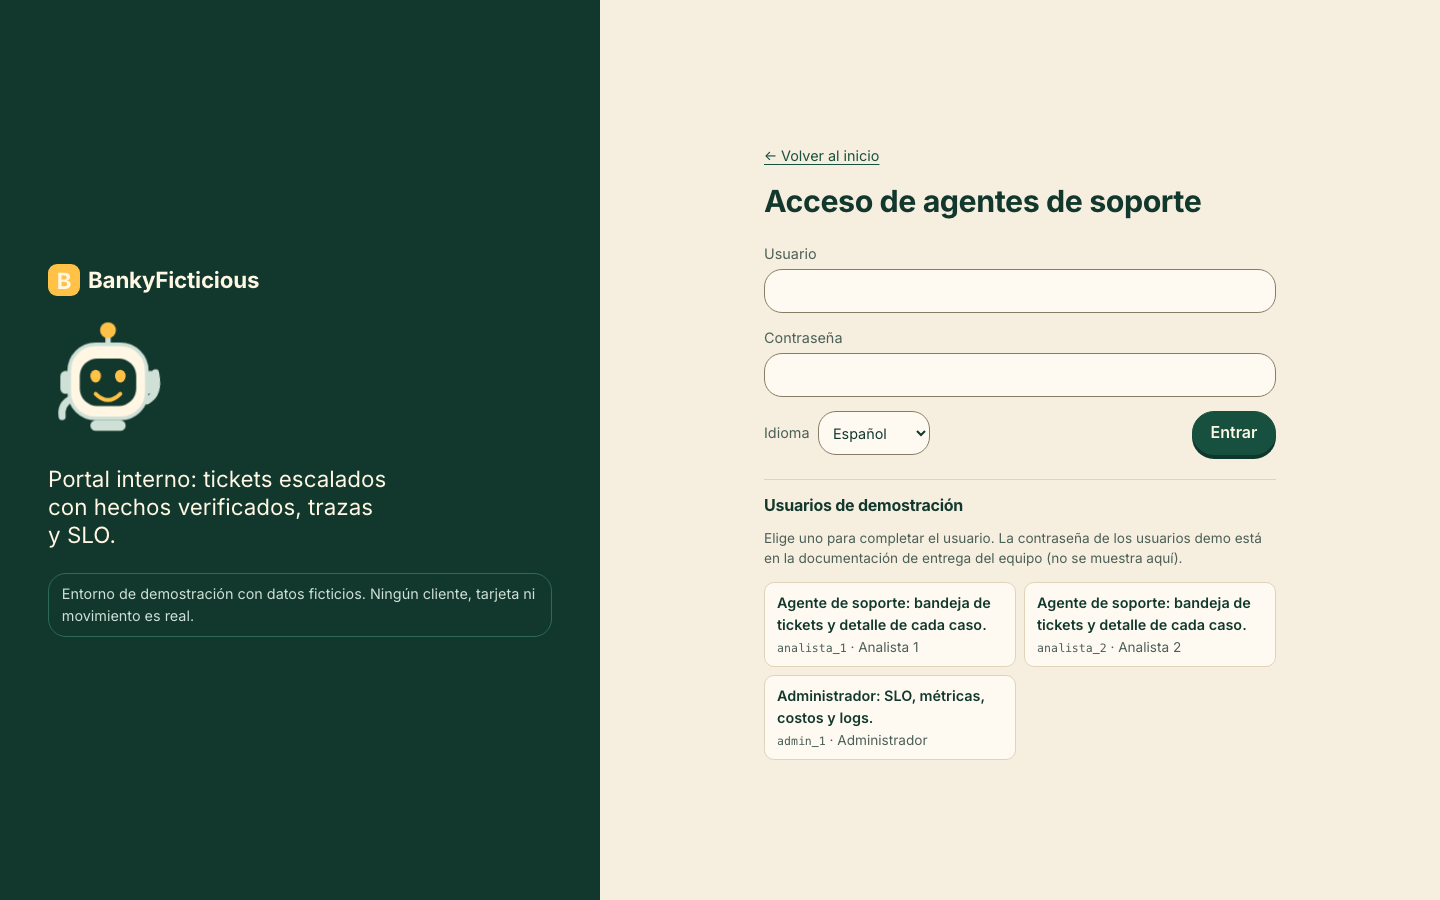
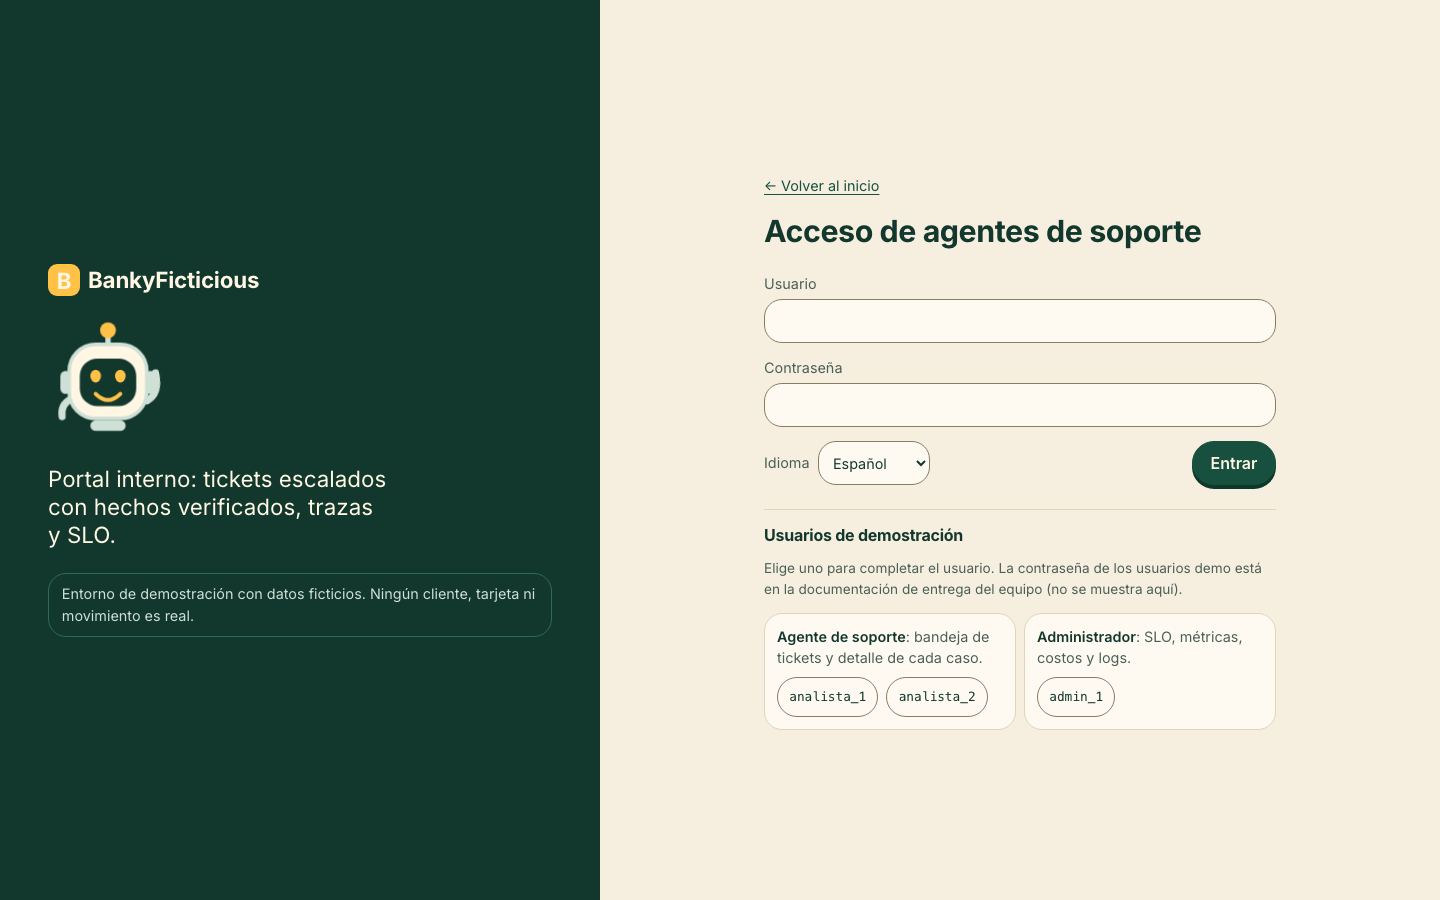
feat(frontend): group demo users by scenario on the login
Shorter demo user list on the login, grouped by scenario.

- One group per scenario (customers) or role (agents, admin), each with a small button per user, instead of one card per user (12 cards became 6 groups).
- On mobile each group is a single row: the scenario name and compact buttons "1" / "2"; the long description stays on desktop. The mobile login page went from about 3,100 px to 2,340 px tall.
- Picking a user still only fills the username and moves focus to the password; each button's accessible name is "<scenario>: <username>".

Closes #106

diff --git a/frontend/src/pages/LoginPage.tsx b/frontend/src/pages/LoginPage.tsx
@@ -1,11 +1,24 @@
 import { useRef, useState, type FormEvent } from "react";
 import { Link, Navigate, useNavigate, useSearchParams } from "react-router-dom";
 import { ApiError } from "../api/client";
+import type { DemoUser } from "../api/types";
 import { useDemoInfo } from "../lib/demo";
 import { T } from "../lib/i18n";
 import { describeError, homeFor, useSession } from "../lib/session";
 import Banky from "../components/Banky";
 import ErrorNote from "../components/ErrorNote";
+
+/** Un grupo por escenario (clientes) o por rol (agentes, admin): la lista queda corta y cada usuario es un botón pequeño. */
+function groupByScenario(users: DemoUser[]): { key: string; description: DemoUser["description"]; users: DemoUser[] }[] {
+  const groups = new Map<string, { key: string; description: DemoUser["description"]; users: DemoUser[] }>();
+  for (const u of users) {
+    const key = u.scenario ?? u.role;
+    const g = groups.get(key) ?? { key, description: u.description, users: [] };
+    g.users.push(u);
+    groups.set(key, g);
+  }
+  return [...groups.values()];
+}
 
 export default function LoginPage() {
   const { session, lang, setLang, login, expired } = useSession();
@@ -77,15 +90,23 @@ export default function LoginPage() {
           <section aria-labelledby="demo-users" className="demo-users">
             <h2 id="demo-users">{t.demoUsers}</h2>
             <p className="muted small">{t.demoPick} {demo.password_hint[lang]}</p>
-            <ul>
-              {demoUsers.map((u) => (
-                <li key={u.username}>
-                  <button type="button" className="demo-user" onClick={() => { setUsername(u.username); passwordRef.current?.focus(); }} aria-pressed={username === u.username}>
-                    <span className="demo-scenario">{u.description[lang]}</span>
-                    <span className="muted small"><span className="mono">{u.username}</span>{u.display_name && <> · {u.display_name}</>}</span>
-                  </button>
-                </li>
-              ))}
+            <ul className="demo-groups">
+              {groupByScenario(demoUsers).map((g) => {
+                const [title, ...rest] = g.description[lang].split(": ");
+                return (
+                  <li key={g.key} className="demo-group">
+                    <p className="demo-scenario">{title}{rest.length > 0 && <span className="demo-desc">: {rest.join(": ")}</span>}</p>
+                    <div className="demo-picks">
+                      {g.users.map((u) => (
+                        <button key={u.username} type="button" className="chip demo-pick" aria-pressed={username === u.username} aria-label={`${title}: ${u.username}`}
+                          onClick={() => { setUsername(u.username); passwordRef.current?.focus(); }}>
+                          <span className="mono pick-full">{u.username}</span><span className="pick-short" aria-hidden="true">{u.rank ?? u.username}</span>
+                        </button>
+                      ))}
+                    </div>
+                  </li>
+                );
+              })}
             </ul>
           </section>
         )}

diff --git a/frontend/src/pages/__tests__/LoginPage.test.tsx b/frontend/src/pages/__tests__/LoginPage.test.tsx
@@ -15,6 +15,7 @@ const demo: DemoInfo = {
   password_hint: { es: "La contraseña está en la documentación de entrega del equipo.", pt: "A senha está na documentação de entrega." },
   users: [
     { username: "demo_cargo_claro_1", role: "customer", display_name: "Carmen R.", scenario: "cargo_claro", rank: 1, description: { es: "Cargo claro: reclámalo de punta a punta.", pt: "Cobrança clara." } },
+    { username: "demo_cargo_claro_2", role: "customer", display_name: "Hugo O.", scenario: "cargo_claro", rank: 2, description: { es: "Cargo claro: reclámalo de punta a punta.", pt: "Cobrança clara." } },
     { username: "analista_1", role: "analyst", display_name: "Analista 1", scenario: null, rank: null, description: { es: "Agente de soporte: bandeja de tickets.", pt: "Agente de suporte." } },
     { username: "admin_1", role: "admin", display_name: "Administrador", scenario: null, rank: null, description: { es: "Administrador: SLO, métricas, costos y logs.", pt: "Administrador." } },
   ],
@@ -28,7 +29,10 @@ describe("LoginPage in demo mode", () => {
   it("shows the demo notice and the customer cards with their scenario, and says where the password is documented", async () => {
     vi.spyOn(api, "demoInfo").mockResolvedValue(demo);
     const { container } = at("/login");
-    const card = await screen.findByRole("button", { name: /Cargo claro: reclámalo de punta a punta/ });
+    const card = await screen.findByRole("button", { name: "Cargo claro: demo_cargo_claro_1" });
+    expect(container.querySelectorAll(".demo-group")).toHaveLength(1);              // un grupo por escenario, con sus dos usuarios
+    expect(screen.getByRole("button", { name: "Cargo claro: demo_cargo_claro_2" })).toBeTruthy();
+    expect(screen.getByText(/reclámalo de punta a punta/)).toBeTruthy();
     expect(screen.getByRole("note").textContent).toBe("Entorno de demostración con datos ficticios.");
     expect(screen.getByText(/documentación de entrega del equipo/)).toBeTruthy();
     expect(screen.queryByText(/Agente de soporte/)).toBeNull();                     // los agentes tienen su propio acceso
@@ -40,8 +44,8 @@ describe("LoginPage in demo mode", () => {
   it("shows agents and the admin on the agents login", async () => {
     vi.spyOn(api, "demoInfo").mockResolvedValue(demo);
     at("/login?perfil=agente");
-    await screen.findByRole("button", { name: /Agente de soporte/ });
-    expect(screen.getByRole("button", { name: /Administrador: SLO/ })).toBeTruthy();
+    await screen.findByRole("button", { name: "Agente de soporte: analista_1" });
+    expect(screen.getByRole("button", { name: "Administrador: admin_1" })).toBeTruthy();
     expect(screen.queryByText(/Cargo claro/)).toBeNull();
   });
 

diff --git a/frontend/src/styles.css b/frontend/src/styles.css
@@ -781,3 +781,26 @@ body { font-family: var(--font-body); }
 .notice-icon { flex: none; width: 1.4rem; height: 1.4rem; border-radius: 50%; display: grid; place-items: center; font-weight: 800; font-size: 0.8rem; font-family: var(--font-display); }
 .notice.info .notice-icon { background: var(--info); color: #fff; }
 .notice.warning .notice-icon { background: var(--warn); color: #fff; }
+
+/* ---- login: usuarios demo agrupados por escenario (lista corta, sobre todo en celular) */
+.demo-users ul.demo-groups { grid-template-columns: repeat(2, minmax(0, 1fr)); gap: var(--s-2); }
+.demo-group { display: grid; gap: var(--s-2); align-content: start; padding: var(--s-3); background: var(--surface); border: 1.5px solid var(--line); border-radius: var(--r-md); }
+.demo-group .demo-scenario { margin: 0; }
+.demo-desc { font-weight: 400; color: var(--muted); }
+.demo-picks { display: flex; flex-wrap: wrap; gap: var(--s-2); }
+.demo-pick { min-height: 40px; padding: 0.3rem 0.7rem; font-size: 0.8rem; font-weight: 500; }
+.demo-pick .mono { font-size: 1em; }
+@media (max-width: 900px) {
+  .demo-users ul.demo-groups { grid-template-columns: 1fr; }
+  .demo-group { grid-template-columns: 1fr; padding: var(--s-2) var(--s-3); }
+  .demo-desc { display: none; }                /* en celular basta el nombre del escenario; la descripción completa queda en escritorio */
+  .demo-pick { min-height: 44px; }
+}
+.pick-short { display: none; }
+@media (max-width: 900px) {
+  .demo-group { grid-template-columns: 1fr auto; align-items: center; gap: var(--s-3); }
+  .demo-picks { flex-wrap: nowrap; }
+  .demo-group .pick-full { display: none; }
+  .demo-group .pick-short { display: inline; font-family: var(--font-mono); }
+  .demo-pick { min-width: 44px; justify-content: center; }
+}
